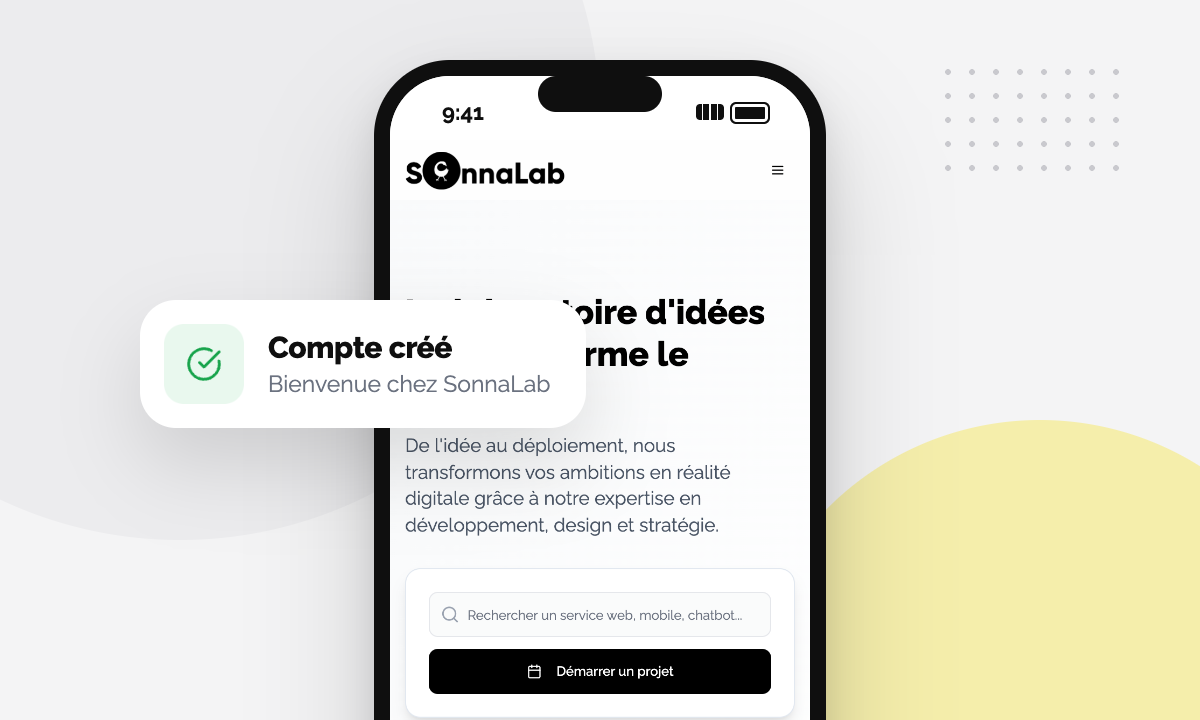
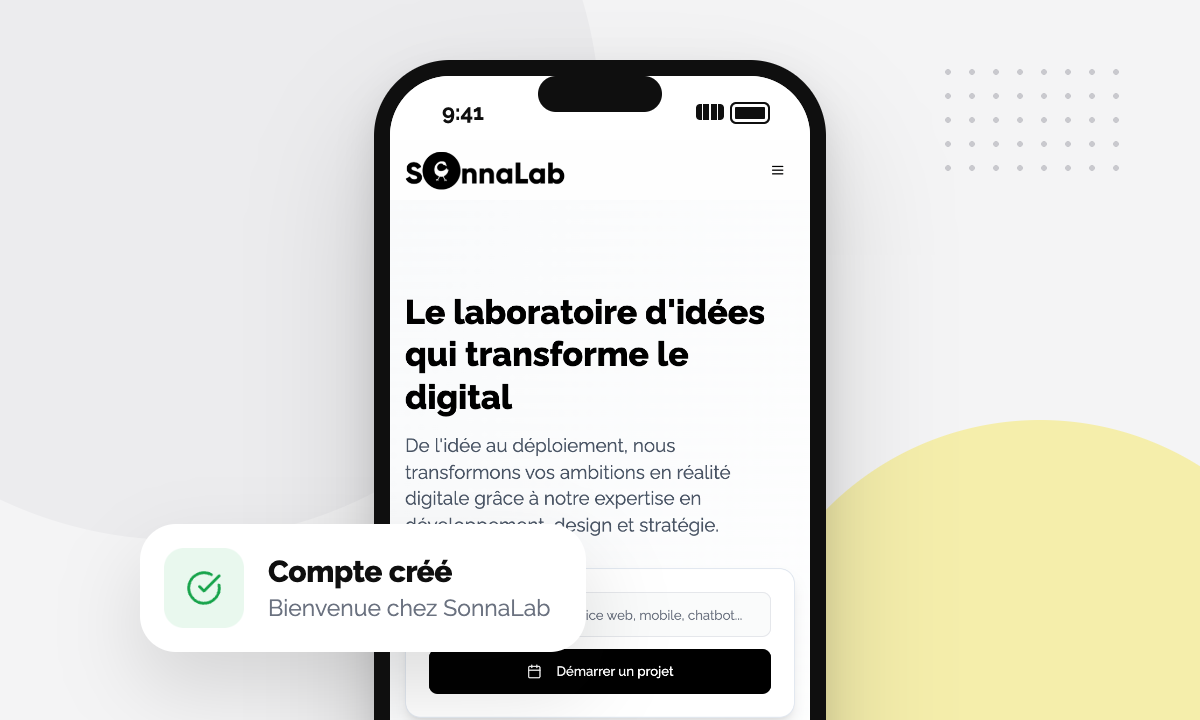
feat: mailPreviewPage ✨
A temporary back-office page, /admin/mails (from Infrastructure,
« Aperçu des mails »), to review every SonnaLab e-mail on the server
without sending anything: pick one on the left — in the client's
journey order — switch French/English and desktop/phone width, and read
its subject, sender, recipients and attachments above the rendered
e-mail. Admins only; remove it once the designs are signed off.

The welcome hero's floating card no longer hides the home headline.

diff --git a/src/pages/private/admin/MailPreviews.tsx b/src/pages/private/admin/MailPreviews.tsx
@@ -1,0 +1,143 @@
+import { useEffect, useRef, useState } from 'react';
+import { useTranslation } from 'react-i18next';
+
+import { apiService, type MailPreview } from '@/services/api';
+import { Breadcrumbs } from '@/components/private/common/Breadcrumbs';
+import { PageHeader } from '@/components/private/common/PageHeader';
+import { PaperclipIcon, ServerIcon } from '@icons';
+
+type Locale = 'fr' | 'en';
+type Device = 'desktop' | 'mobile';
+
+// The order of the client's journey, not the alphabet.
+const ORDER = [
+  'auth_mailer', 'confirmation', 'reset_password', 'team_mailer', 'invitation',
+  'billing_mailer', 'quote_sent', 'invoice_sent', 'invoice_sent_after_deposit', 'payment_reminder_upcoming',
+  'payment_reminder_overdue', 'payment_received_deposit', 'payment_received_settled',
+  'contact_mailer', 'confirm_submission', 'notify_team',
+];
+const rank = (key: string) => (ORDER.indexOf(key) + 1 || ORDER.length + 1);
+const byJourney = (a: string, b: string) => rank(a) - rank(b);
+
+/**
+ * « Aperçu des mails » (temporary, reached from Infrastructure): every
+ * SonnaLab e-mail rendered by the API on fictional data — nothing is sent.
+ * Pick one on the left; French or English, desktop or phone width.
+ */
+export default function AdminMailPreviews() {
+  const { t } = useTranslation('admin');
+  const [mailers, setMailers] = useState<{ key: string; emails: string[] }[]>([]);
+  const [selected, setSelected] = useState<{ mailer: string; email: string } | null>(null);
+  const [locale, setLocale] = useState<Locale>('fr');
+  const [device, setDevice] = useState<Device>('desktop');
+  const [mail, setMail] = useState<MailPreview | null>(null);
+  const [error, setError] = useState(false);
+  const frame = useRef<HTMLIFrameElement>(null);
+
+  useEffect(() => {
+    apiService.adminMailPreviews()
+      .then(({ mailers: unsorted }) => {
+        const list = unsorted
+          .map((m) => ({ ...m, emails: [...m.emails].sort(byJourney) }))
+          .sort((a, b) => byJourney(a.key, b.key));
+        setMailers(list);
+        const first = list.find((m) => m.emails.length);
+        if (first) setSelected({ mailer: first.key, email: first.emails[0] });
+      })
+      .catch(() => setError(true));
+  }, []);
+
+  useEffect(() => {
+    if (!selected) return;
+    setMail(null);
+    setError(false);
+    apiService.adminMailPreview(selected.mailer, selected.email, locale).then(setMail).catch(() => setError(true));
+  }, [selected, locale]);
+
+  // Links open in a new tab; the frame grows to the e-mail's height.
+  const html = mail?.html.replace('<head>', '<head><base target="_blank">') ?? '';
+  const fit = () => {
+    const doc = frame.current?.contentDocument;
+    if (frame.current && doc) frame.current.style.height = `${doc.documentElement.scrollHeight}px`;
+  };
+  useEffect(fit, [device]);
+
+  const label = (mailer: string, email: string) => t(`mails.emails.${email}`, { defaultValue: `${mailer} · ${email}` });
+
+  return (
+    <div className="dash-page">
+      <Breadcrumbs items={[{ label: t('nav.infrastructure'), to: '/admin/infrastructure' }, { label: t('mails.heading') }]} />
+      <PageHeader
+        badge={{ icon: ServerIcon, label: t('nav.infrastructure') }}
+        title={t('mails.heading')}
+        description={t('mails.subtitle')}
+        actions={
+          <>
+            <div className="mailp-toggle" role="group" aria-label={t('mails.locale')}>
+              {(['fr', 'en'] as Locale[]).map((code) => (
+                <button key={code} type="button" className={locale === code ? 'is-active' : ''} onClick={() => setLocale(code)}>{code.toUpperCase()}</button>
+              ))}
+            </div>
+            <div className="mailp-toggle" role="group" aria-label={t('mails.device.label')}>
+              {(['desktop', 'mobile'] as Device[]).map((d) => (
+                <button key={d} type="button" className={device === d ? 'is-active' : ''} onClick={() => setDevice(d)}>{t(`mails.device.${d}`)}</button>
+              ))}
+            </div>
+          </>
+        }
+      />
+
+      <div className="mailp">
+        <nav className="mailp-list" aria-label={t('mails.heading')}>
+          {mailers.map((m) => (
+            <div key={m.key} className="mailp-list__group">
+              <p className="mailp-list__title">{t(`mails.groups.${m.key}`, { defaultValue: m.key })}</p>
+              {m.emails.map((email) => (
+                <button
+                  key={email}
+                  type="button"
+                  className={`mailp-list__item${selected?.mailer === m.key && selected.email === email ? ' is-active' : ''}`}
+                  onClick={() => setSelected({ mailer: m.key, email })}
+                >
+                  {label(m.key, email)}
+                </button>
+              ))}
+            </div>
+          ))}
+        </nav>
+
+        <section className="mailp-view">
+          {error && <p className="trv-error">{t('common.error')}</p>}
+          {mail && (
+            <dl className="mailp-meta">
+              <div><dt>{t('mails.subject')}</dt><dd className="mailp-meta__subject">{mail.subject}</dd></div>
+              <div><dt>{t('mails.from')}</dt><dd>{mail.from}</dd></div>
+              <div><dt>{t('mails.to')}</dt><dd>{mail.to?.join(', ')}</dd></div>
+              {mail.reply_to && <div><dt>{t('mails.replyTo')}</dt><dd>{mail.reply_to.join(', ')}</dd></div>}
+              <div>
+                <dt>{t('mails.attachments')}</dt>
+                <dd>
+                  {mail.attachments.length ? mail.attachments.map((a) => (
+                    <span key={a.filename} className="mailp-meta__file"><PaperclipIcon size={12} /> {a.filename} · {Math.ceil(a.size / 1024)} Ko</span>
+                  )) : t('mails.none')}
+                </dd>
+              </div>
+            </dl>
+          )}
+          <div className="mailp-stage">
+            {mail ? (
+              <iframe
+                ref={frame}
+                title={mail.subject}
+                srcDoc={html}
+                className={`mailp-frame mailp-frame--${device}`}
+                sandbox="allow-same-origin allow-popups allow-popups-to-escape-sandbox"
+                onLoad={fit}
+              />
+            ) : !error && <p className="trk-loading">{t('common.loading')}</p>}
+          </div>
+        </section>
+      </div>
+    </div>
+  );
+}

diff --git a/src/styles/dashboard.css b/src/styles/dashboard.css
@@ -5810,3 +5810,31 @@
 .infra-row dd { margin: 0; font-family: ui-monospace, SFMono-Regular, Menlo, monospace; font-size: 12.5px; color: #111111; text-align: right; overflow-wrap: anywhere; }
 @media (max-width: 760px) { .infra-grid { grid-template-columns: 1fr; } }
 @media (max-width: 640px) { .dash-stat__label { white-space: normal; } }
+
+/* Aperçu des mails (admin/mails): the list, then the e-mail in a frame. */
+.mailp { display: grid; grid-template-columns: 260px minmax(0, 1fr); gap: 20px; align-items: start; }
+.mailp-list { position: sticky; top: 16px; display: flex; flex-direction: column; gap: 18px; padding: 16px; border: 1px solid #e8eaed; border-radius: 12px; background: #ffffff; }
+.mailp-list__group { display: flex; flex-direction: column; gap: 2px; }
+.mailp-list__title { margin: 0 0 6px; font-size: 11px; font-weight: 700; letter-spacing: 0.06em; text-transform: uppercase; color: #9ca3af; }
+.mailp-list__item { padding: 8px 10px; border: 0; border-radius: 8px; background: transparent; font: inherit; font-size: 13px; color: #4b5563; text-align: left; cursor: pointer; }
+.mailp-list__item:hover { background: #f5f5f3; color: #111111; }
+.mailp-list__item.is-active { background: rgba(17, 17, 17, 0.07); color: #0f0f0f; font-weight: 600; box-shadow: inset 3px 0 0 #111111; }
+.mailp-view { display: flex; flex-direction: column; gap: 14px; min-width: 0; }
+.mailp-meta { display: grid; gap: 8px; margin: 0; padding: 16px 18px; border: 1px solid #e8eaed; border-radius: 12px; background: #ffffff; }
+.mailp-meta > div { display: grid; grid-template-columns: 120px minmax(0, 1fr); gap: 12px; font-size: 13px; }
+.mailp-meta dt { color: #6b7280; }
+.mailp-meta dd { margin: 0; color: #111111; overflow-wrap: anywhere; }
+.mailp-meta__subject { font-weight: 700; }
+.mailp-meta__file { display: inline-flex; align-items: center; gap: 4px; margin-right: 12px; }
+.mailp-stage { display: flex; justify-content: center; padding: 24px 0; border-radius: 12px; background: #e9eaed; }
+.mailp-frame { display: block; height: 900px; border: 0; background: #f4f4f5; transition: width 0.2s ease; }
+.mailp-frame--desktop { width: 680px; max-width: 100%; }
+.mailp-frame--mobile { width: 390px; max-width: 100%; }
+.mailp-toggle { display: inline-flex; padding: 3px; border: 1px solid #e8eaed; border-radius: 10px; background: #ffffff; }
+.mailp-toggle button { padding: 6px 12px; border: 0; border-radius: 7px; background: transparent; font: inherit; font-size: 13px; font-weight: 600; color: #6b7280; cursor: pointer; }
+.mailp-toggle button.is-active { background: #111111; color: #ffffff; }
+@media (max-width: 900px) {
+  .mailp { grid-template-columns: 1fr; }
+  .mailp-list { position: static; }
+}
+

diff --git a/src/pages/private/admin/Infrastructure.tsx b/src/pages/private/admin/Infrastructure.tsx
@@ -1,6 +1,7 @@
 import { useEffect, useState } from 'react';
+import { Link } from 'react-router-dom';
 import { useTranslation } from 'react-i18next';
-import { ActivityIcon, AlertTriangleIcon, LayersIcon, RefreshCwIcon, ServerIcon, ZapIcon } from '@icons';
+import { ActivityIcon, AlertTriangleIcon, LayersIcon, RefreshCwIcon, SendIcon, ServerIcon, ZapIcon } from '@icons';
 
 import { apiService } from '@/services/api';
 import { Badge } from '@/components/ui/badge';
@@ -43,10 +44,14 @@ export default function AdminInfrastructure() {
         title={t('infrastructure.heading')}
         description={t('infrastructure.subtitle')}
         actions={
-          <Button variant="outline" size="sm" onClick={reload} disabled={loading}>
-            <RefreshCwIcon className={`size-4 mr-2 ${loading ? 'animate-spin' : ''}`} />
-            {t('infrastructure.refresh')}
-          </Button>
+          <>
+            {/* Temporary: the e-mail designs, rendered by the API, nothing sent. */}
+            <Link to="/admin/mails" className="adm-btn adm-btn--ghost"><SendIcon size={14} /> {t('mails.heading')}</Link>
+            <Button variant="outline" size="sm" onClick={reload} disabled={loading}>
+              <RefreshCwIcon className={`size-4 mr-2 ${loading ? 'animate-spin' : ''}`} />
+              {t('infrastructure.refresh')}
+            </Button>
+          </>
         }
       />
 

diff --git a/src/services/api.tsx b/src/services/api.tsx
@@ -342,6 +342,17 @@ export interface AdminUsersOverview {
   acquisition: number;
 }
 
+/** « Aperçu des mails »: an e-mail rendered on sample data (nothing sent). */
+export interface MailPreview {
+  subject: string;
+  from: string | null;
+  to: string[] | null;
+  reply_to: string[] | null;
+  html: string;
+  text: string | null;
+  attachments: { filename: string; size: number }[];
+}
+
 export interface AdminImpersonateResponse {
   access_token: string;
   user: AdminUser;
@@ -705,6 +716,12 @@ class ApiService {
 
   // ==================== Admin: Users ====================
 
+  async adminMailPreviews(): Promise<{ mailers: { key: string; emails: string[] }[] }> {
+    return (await this.client.get('/api/v1/admin/mail_previews')).data;
+  }
+  async adminMailPreview(mailer: string, email: string, locale: string): Promise<MailPreview> {
+    return (await this.client.get(`/api/v1/admin/mail_previews/${mailer}/${email}`, { params: { locale } })).data;
+  }
   async adminUsersOverview(): Promise<AdminUsersOverview> {
     return (await this.client.get('/api/v1/admin/users/overview')).data;
   }

diff --git a/src/router/index.tsx b/src/router/index.tsx
@@ -45,6 +45,7 @@ import AdminLesankofa from '@/pages/private/admin/Lesankofa';
 import AdminTravauxClients from '@/pages/private/admin/travaux/TravauxClients';
 import AdminClientTravaux from '@/pages/private/admin/travaux/ClientTravaux';
 import AdminCompany from '@/pages/private/admin/company/Company';
+import AdminMailPreviews from '@/pages/private/admin/MailPreviews';
 
 // Staff
 import StaffDashboard from '@/pages/private/staff/Dashboard';
@@ -201,6 +202,7 @@ export const routeTree: RouteObject[] = [
           { path: 'travaux',        element: <AdminTravauxClients /> },
           { path: 'travaux/:clientId', element: <AdminClientTravaux /> },
           { path: 'entreprise',     element: <AdminCompany /> },
+          { path: 'mails',          element: <AdminMailPreviews /> },
         ],
       },
     ],
